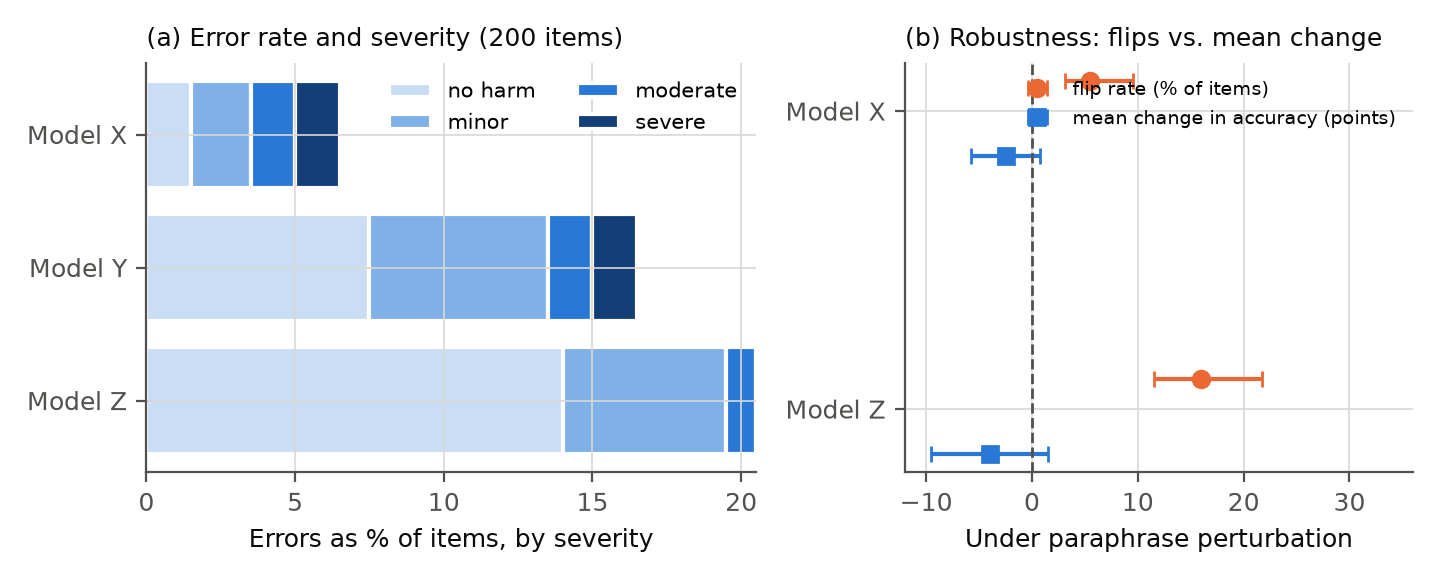
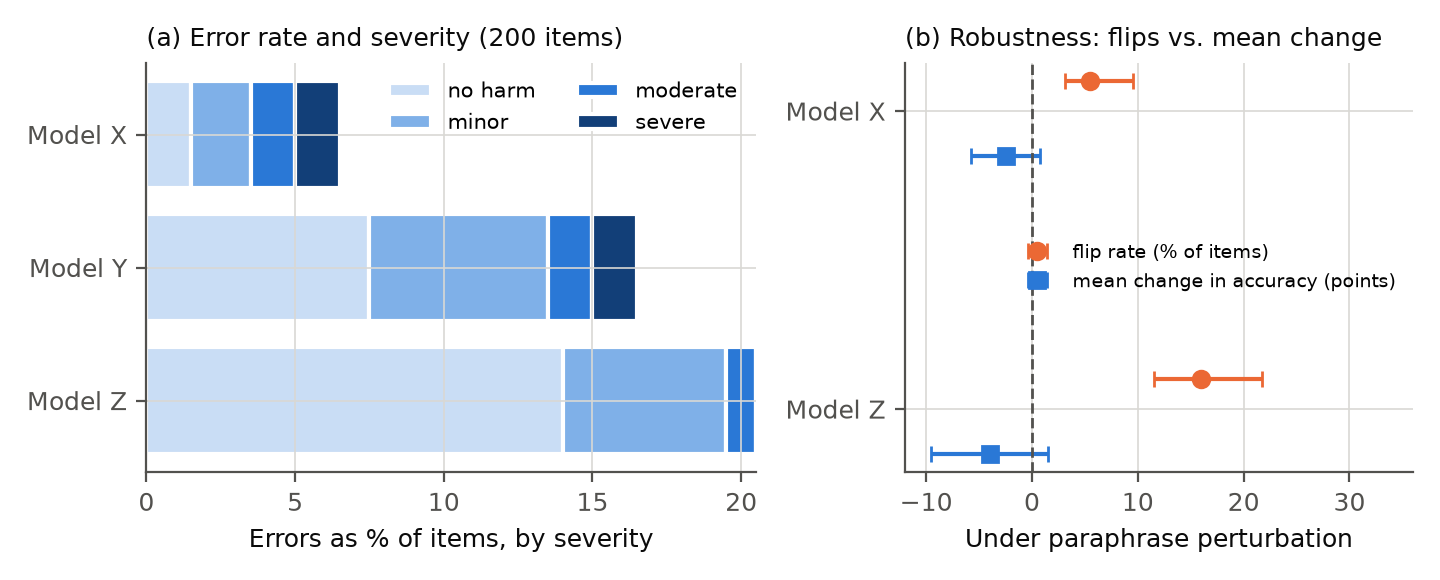
Regenerate figures

Changed region(s): [[0.6875, 0.4034, 0.9688, 0.4966], [0.6875, 0.1241, 0.9688, 0.2172]]

diff --git a/figures.py b/figures.py
@@ -395,7 +395,7 @@ ax[1].errorbar([100*pert[m]["flip"] for m in labels], [0, 1], xerr=[[100*(pert[m
 ax[1].errorbar([100*pert[m]["change"] for m in labels], [0.25, 1.25], xerr=[100*1.96*pert[m]["change_se"] for m in labels],
                fmt="s", color=C1, ecolor=C1, capsize=3, ms=6, lw=1.5, label="mean change in accuracy (points)")
 ax[1].axvline(0, color=INK2, ls="--", lw=1); ax[1].set_yticks([0.1, 1.1]); ax[1].set_yticklabels(labels); ax[1].invert_yaxis()
-ax[1].set_xlabel("Under paraphrase perturbation"); ax[1].legend(fontsize=7, loc="upper right"); ax[1].set_xlim(-12, 36)
+ax[1].set_xlabel("Under paraphrase perturbation"); ax[1].legend(fontsize=7, loc="center right"); ax[1].set_xlim(-12, 36)
 ax[1].set_title("(b) Robustness: flips vs. mean change", loc="left", fontsize=9, color=INK)
 fig.tight_layout(); fig.savefig(os.path.join(OUT, "fig6_severity_robustness.png")); plt.close(fig)
 
